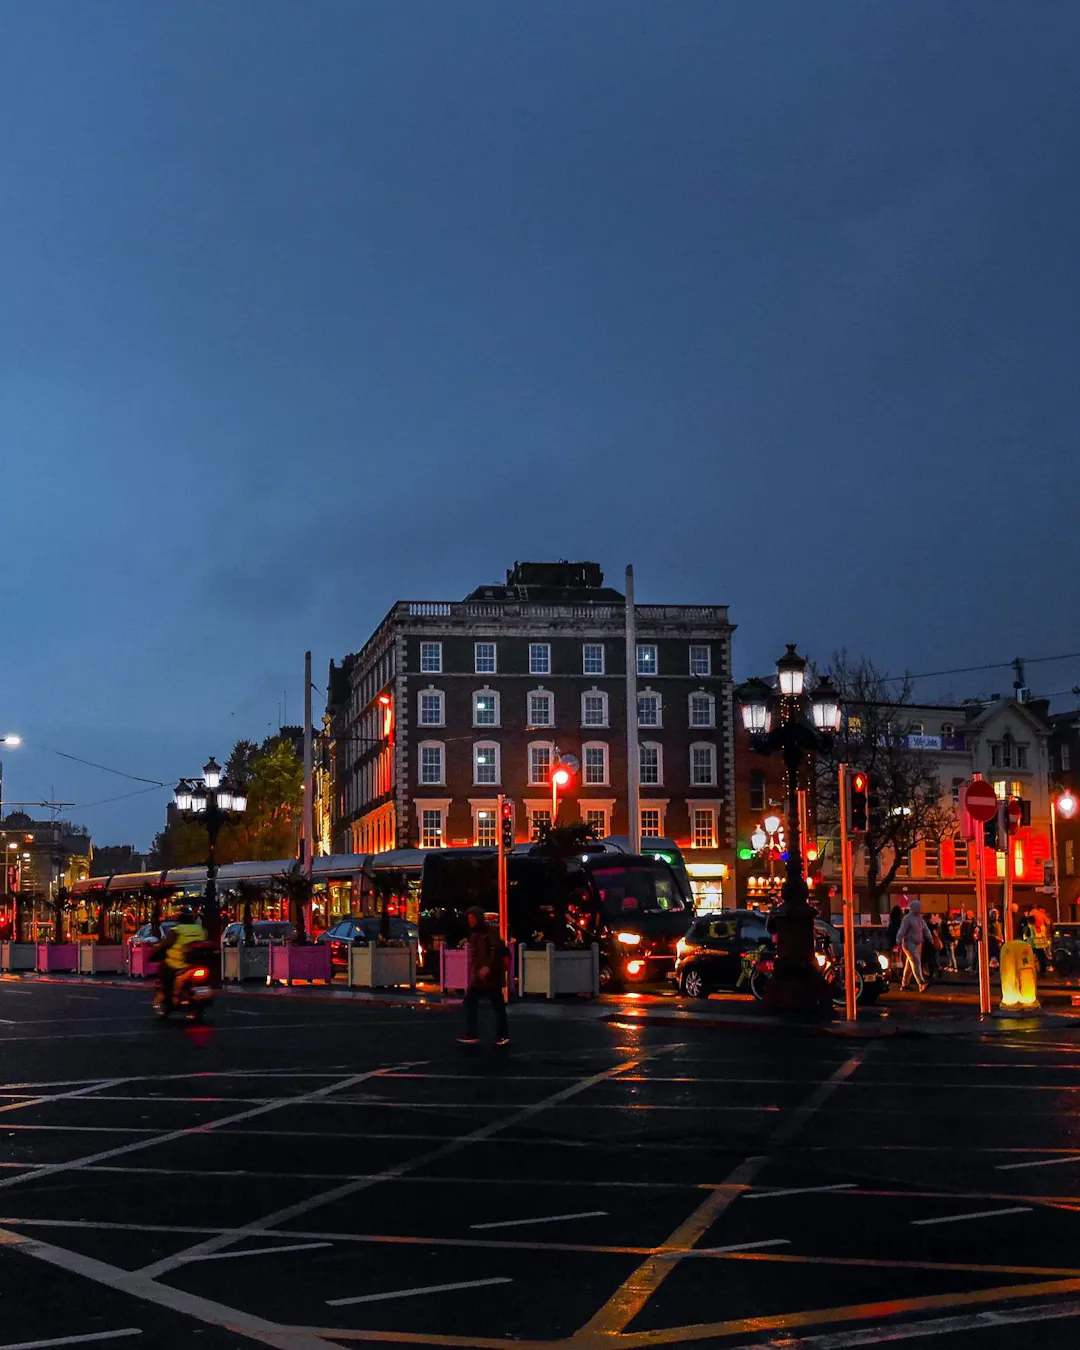
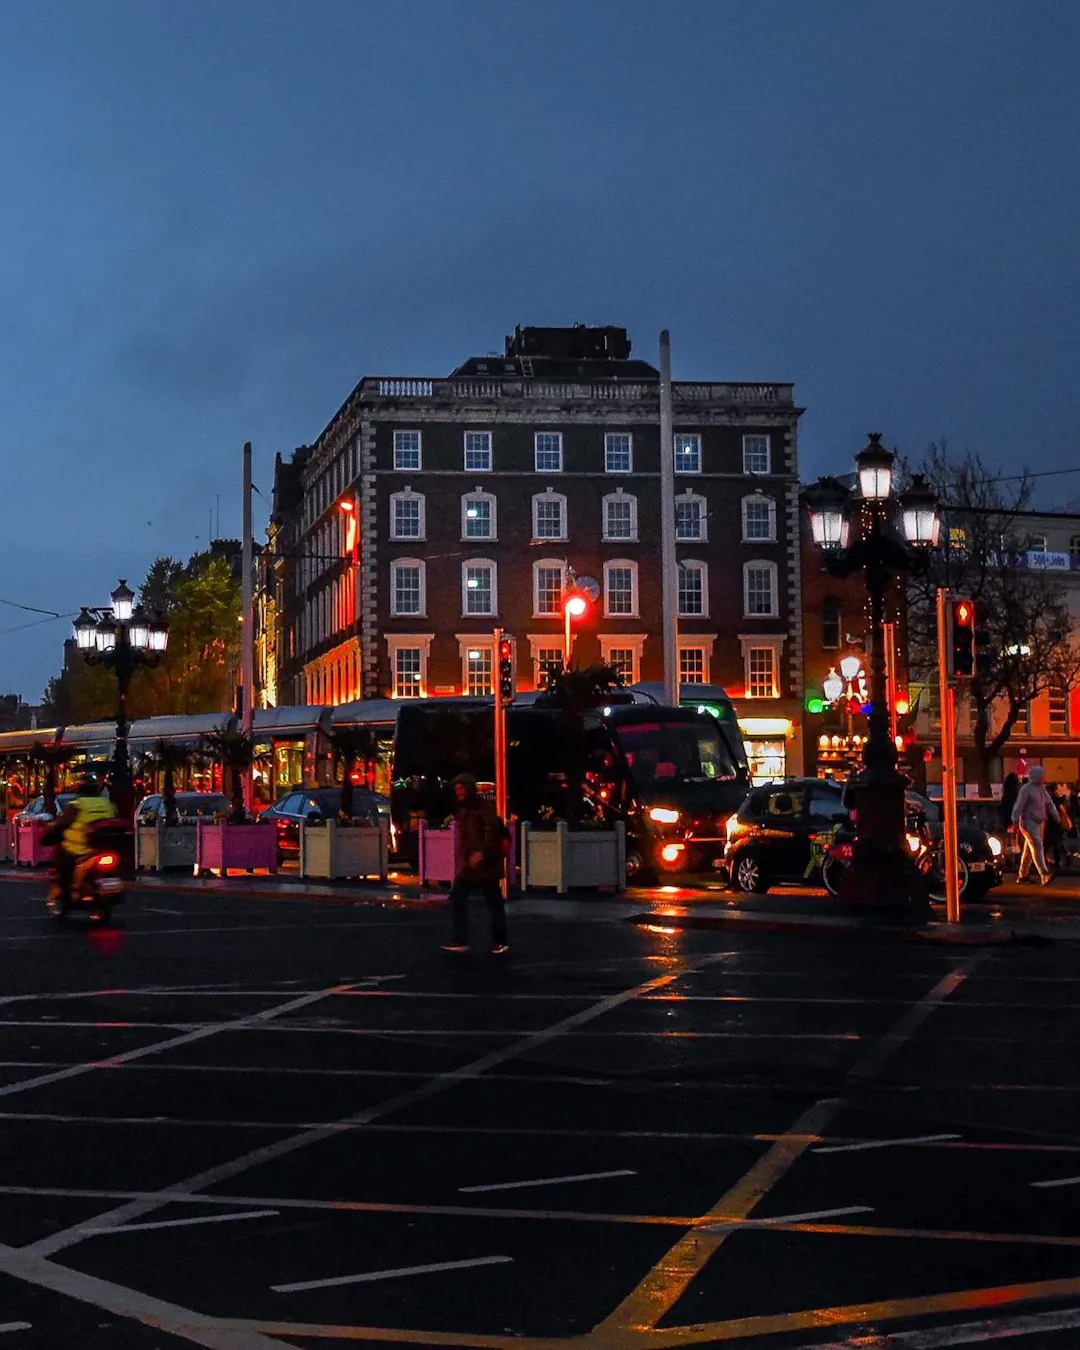
fix: final QA pass on top bar, navbar and hero
Remove the carousel dots so the hero has no visible control (Pause
stays available on keyboard focus). Re-crop the fourth campaign for
phones, fit the hero to landscape phones, shrink the title on short
phones and strengthen text contrast behind the copy.

diff --git a/src/css/commerce.css b/src/css/commerce.css
@@ -51,7 +51,7 @@
     display: grid;
     --hero-h: clamp(30rem, calc(100svh - var(--announcement-h) - var(--nav-h) - var(--hero-peek)), 54rem);
     /* Room taken by everything in a slide except its title. */
-    --hero-chrome: 18.5rem;
+    --hero-chrome: 17rem;
     height: var(--hero-h);
     overflow: hidden;
     background-color: var(--color-ink);
@@ -70,7 +70,35 @@
   /* Short phones: a smaller title leaves the top of the photo to its subject. */
   @media (width < 64rem) and (orientation: portrait) and (height < 44rem) {
     .hero {
-      --hero-chrome: 24rem;
+      --hero-chrome: 24.5rem;
+    }
+  }
+
+  /* Phones held sideways: the hero fits the screen under the header and the
+     copy tightens so the call to action needs no scrolling. */
+  @media (orientation: landscape) and (height < 30rem) {
+    .hero {
+      --hero-h: max(16rem, calc(100svh - var(--announcement-h) - var(--nav-h)));
+      --hero-chrome: 12rem;
+    }
+
+    .hero .hero-content {
+      padding-block: 1.5rem;
+    }
+
+    .hero .hero-title,
+    .hero .hero-description {
+      margin-top: 0.75rem;
+    }
+
+    .hero .hero-description {
+      max-width: 60ch;
+      font-size: var(--text-body);
+      line-height: var(--text-body--line-height);
+    }
+
+    .hero .hero-cta {
+      margin-top: 1rem;
     }
   }
 
@@ -141,7 +169,7 @@
     position: relative;
     display: flex;
     align-items: flex-end;
-    padding-block: 3rem 4.5rem;
+    padding-block: 3rem;
     background: linear-gradient(to bottom, rgb(10 10 10 / 0) 10%, rgb(10 10 10 / 0.45) 38%, rgb(10 10 10 / 0.82));
   }
 
@@ -151,7 +179,7 @@
       padding-block: 5rem;
       background:
         linear-gradient(to top, rgb(10 10 10 / 0.75), rgb(10 10 10 / 0.55) 12%, rgb(10 10 10 / 0) 32%),
-        linear-gradient(to right, rgb(10 10 10 / 0.62), rgb(10 10 10 / 0.2) 50%, rgb(10 10 10 / 0) 72%);
+        linear-gradient(to right, rgb(10 10 10 / 0.66), rgb(10 10 10 / 0.3) 50%, rgb(10 10 10 / 0) 78%);
     }
   }
 
@@ -202,6 +230,7 @@
     font-weight: var(--text-display-xl--font-weight);
     line-height: var(--text-display-xl--line-height);
     letter-spacing: var(--text-display-xl--letter-spacing);
+    text-shadow: 0 0 1.5rem rgb(10 10 10 / 0.35);
     font-size: min(var(--text-display-xl), max(2.25rem, calc((var(--hero-h) - var(--hero-chrome)) / 3)));
   }
 
@@ -217,76 +246,22 @@
     margin-top: 2rem;
   }
 
-  /* Controls: four discreet dots; Pause appears on keyboard focus only. */
+  /* The only control: Pause / Play, kept for keyboard and screen reader
+     users and shown on keyboard focus only. */
   .hero-controls {
     position: absolute;
-    inset: auto 0 0 0;
+    inset: auto 0 1rem 0;
     z-index: 2;
-    padding-bottom: 1rem;
+    display: flex;
     pointer-events: none;
   }
 
-  /* Desktop: the 44px dot row shares the centre line of the 48px CTA. */
-  @media (width >= 64rem) {
-    .hero-controls {
-      padding-bottom: calc(5rem + 2px);
-    }
-  }
-
-  .hero-controls-row {
+  .hero-controls .container-site {
     display: flex;
-    align-items: center;
-    justify-content: space-between;
-    gap: 1rem;
+    justify-content: flex-end;
   }
 
-  @media (width >= 64rem) {
-    .hero-controls-row {
-      justify-content: flex-end;
-    }
-  }
-
-  .hero-dots {
-    display: flex;
-    margin-inline: -0.5625rem;
-    pointer-events: auto;
-  }
-
-  /* 24 by 44px target around a 6px dot. */
-  .hero-dot {
-    display: flex;
-    align-items: center;
-    justify-content: center;
-    width: 1.5rem;
-    height: 2.75rem;
-  }
-
-  .hero-dot span {
-    width: 0.375rem;
-    height: 0.375rem;
-    border-radius: 50%;
-    background-color: rgb(255 255 255 / 0.5);
-    /* Thin dark edge: keeps the dot visible on bright parts of a photo. */
-    box-shadow: 0 0 0 1px rgb(10 10 10 / 0.35);
-    transition:
-      background-color var(--duration-base) var(--ease-premium),
-      transform var(--duration-base) var(--ease-premium);
-  }
-
-  .hero-dot[data-current] span {
-    background-color: var(--color-white);
-    transform: scale(1.34);
-  }
-
-  @media (hover: hover) {
-    .hero-dot:hover span {
-      background-color: var(--color-white);
-    }
-  }
-
-  /* Pause / Play: kept for keyboard and screen reader users, shown on focus. */
   .hero-pause {
-    order: 1;
     min-height: 2.75rem;
     padding-inline: 0.875rem;
     background-color: rgb(10 10 10 / 0.7);
@@ -301,12 +276,6 @@
   .hero-pause:focus-visible {
     opacity: 1;
     pointer-events: auto;
-  }
-
-  @media (width >= 64rem) {
-    .hero-pause {
-      order: 0;
-    }
   }
 
   /* ---------- Product grid & rail ---------- */

diff --git a/src/js/modules/carousel.js b/src/js/modules/carousel.js
@@ -7,8 +7,9 @@
  * a slide or the tab is hidden, and stops until an explicit Play when keyboard
  * focus enters the carousel or the user prefers reduced motion.
  *
- * Hooks: [data-carousel-pause], [data-carousel-goto="<index>"],
- * [data-carousel-status].
+ * No visible control: swipe on touch screens, and a Pause / Play button
+ * ([data-carousel-pause]) that only shows on keyboard focus.
+ * Slide changes made by hand are announced in [data-carousel-status].
  */
 
 import { qs, qsa } from '../utils/dom.js';
@@ -16,7 +17,7 @@ import { qs, qsa } from '../utils/dom.js';
 const INTERVAL = 6000;
 const SWIPE_DISTANCE = 48;
 // On a slow connection, autoplay waits this long for the next image before it
-// gives the current slide another cycle; a click waits this long at most.
+// gives the current slide another cycle; a swipe waits this long at most.
 const AUTO_WAIT = 4000;
 const MANUAL_WAIT = 1500;
 
@@ -25,8 +26,6 @@ export function initCarousel(root = qs('[data-carousel]')) {
   const slides = qsa('[data-slide]', root);
   if (slides.length < 2) return;
 
-  const controls = qs('.hero-controls', root);
-  const dots = qsa('[data-carousel-goto]', root);
   const status = qs('[data-carousel-status]', root);
   const pauseButton = qs('[data-carousel-pause]', root);
   const reducedMotion = window.matchMedia('(prefers-reduced-motion: reduce)');
@@ -92,11 +91,6 @@ export function initCarousel(root = qs('[data-carousel]')) {
       slide.toggleAttribute('data-active', active);
       slide.toggleAttribute('inert', !active);
     });
-    dots.forEach((dot, i) => {
-      dot.toggleAttribute('data-current', i === index);
-      if (i === index) dot.setAttribute('aria-current', 'true');
-      else dot.removeAttribute('aria-current');
-    });
     if (announce && status) {
       const title = qs('h2', slides[index])?.textContent ?? '';
       status.textContent = `Campaign ${index + 1} of ${slides.length}: ${title}`;
@@ -148,7 +142,7 @@ export function initCarousel(root = qs('[data-carousel]')) {
     restartClock();
   };
 
-  /** A click, key or swipe: the outgoing slide stays until the new image is in. */
+  /** A swipe: the outgoing slide stays until the new image is in. */
   const goTo = (next, options) => {
     wanted = (next + slides.length) % slides.length;
     autoPending = false;
@@ -198,14 +192,6 @@ export function initCarousel(root = qs('[data-carousel]')) {
   };
 
   pauseButton?.addEventListener('click', () => setPaused(!userPaused));
-  dots.forEach((dot) => dot.addEventListener('click', () => goTo(Number(dot.dataset.carouselGoto), { announce: true })));
-
-  // Arrow keys work from the controls only: from a slide's link they would
-  // make that slide inert and drop focus on <body>.
-  controls?.addEventListener('keydown', (event) => {
-    if (event.key === 'ArrowRight') goTo(wanted + 1, { announce: true });
-    else if (event.key === 'ArrowLeft') goTo(wanted - 1, { announce: true });
-  });
 
   // Keyboard focus entering the carousel stops autoplay until an explicit Play.
   root.addEventListener('focusin', (event) => {
@@ -233,7 +219,7 @@ export function initCarousel(root = qs('[data-carousel]')) {
   });
   document.addEventListener('visibilitychange', syncHold);
 
-  // Swipe (touch and pen only; mouse users have the dots).
+  // Swipe (touch and pen only).
   let startX = 0;
   let startY = 0;
   root.addEventListener('pointerdown', (event) => {

diff --git a/index.html b/index.html
@@ -361,9 +361,8 @@
 <section class="hero" aria-roledescription="carousel" aria-label="Campaigns" data-carousel>
   <h1 class="sr-only">DUBLIN/01 — sneakers and streetwear, Dublin</h1>
   <div class="hero-controls">
-    <div class="container-site hero-controls-row">
+    <div class="container-site">
       <button class="hero-pause" type="button" data-carousel-pause>Pause slideshow</button>
-      <div class="hero-dots"><button class="hero-dot" type="button" aria-label="Show campaign 1 of 4: Built for wet pavements." data-carousel-goto="0"><span></span></button><button class="hero-dot" type="button" aria-label="Show campaign 2 of 4: Made for everyday miles." data-carousel-goto="1"><span></span></button><button class="hero-dot" type="button" aria-label="Show campaign 3 of 4: City layers. Dublin energy." data-carousel-goto="2"><span></span></button><button class="hero-dot" type="button" aria-label="Show campaign 4 of 4: Ready for every route." data-carousel-goto="3"><span></span></button></div>
     </div>
   </div>
   <div class="hero-slides" data-carousel-slides>
@@ -413,7 +412,7 @@
       </div>
     </article>
     <article class="hero-slide" role="group" aria-roledescription="slide" aria-label="4 of 4" data-slide data-campaign="dublin-essentials-city" inert>
-      <picture style="--hero-pos-tall: 50% 50%; --hero-pos-wide: 50% 60%">
+      <picture style="--hero-pos-tall: 50% 0%; --hero-pos-wide: 50% 60%">
         <source media="(min-width: 64rem), (orientation: landscape)" data-srcset="public/images/editorial/hero-dublin-wide.webp" width="1920" height="1080" />
         <img class="hero-media" data-src="public/images/editorial/hero-dublin-tall.webp" width="1080" height="1350"
           decoding="async" alt="Dublin city centre at dusk after rain, red lights reflected on the wet road." />

diff --git a/travaux-realises.md b/travaux-realises.md
@@ -339,3 +339,62 @@ Vérifié sur captures à 1440×900, 1280×800, 1280×720, 1024×768, 768×1024,
 
 - **Maintenant** : tout ce qui précède. Aucune dépendance ajoutée.
 - **Plus tard** : campagnes servies par un CMS (même schéma JSON), dates de début et de fin, mesure des clics. Les sections sous le Hero ne sont pas commencées.
+
+---
+
+## PHASE 02 — TOP BAR + NAVBAR + HERO
+
+**STATUS: PRODUCTION READY / VISUAL REVIEW**
+
+Date : 4 octobre 2026. Passe finale de contrôle, corrections et vérification. Aucune nouvelle section, aucune refonte. En attente de la validation visuelle avant le gel.
+
+### Vérifié
+
+- **Barre d'annonce** : hauteur 32 px, message centré sur l'axe de la page (écart mesuré : 0 px), « 30-day returns » à gauche et « EN / EUR € » à droite à partir de 1024 px, message seul en dessous. Aucun défaut trouvé, rien modifié.
+- **Navbar** : New, Men, Women, Sneakers, Clothing, Brands, Sale ; logo centré sur la page à toutes les largeurs (écart 0 px) ; aucun chevauchement entre navigation, logo et actions, y compris à 1280 px ; recherche réelle sur le catalogue local (résultats, Échap, clic extérieur) ; compte, favoris et panier ; menus déroulants et menu mobile. Aucun défaut trouvé, rien modifié.
+- **Hero** : 4 campagnes, un cycle complet observé sur desktop et sur mobile (changement toutes les 6 s), boutons, cadrages, hauteur, contraste, clavier, mouvement réduit.
+- **Bande blanche sous le Hero** : c'est le padding supérieur de la section suivante (144 px à 1440, 64 px à 390). Le Hero n'a ni marge ni padding en bas, et aucun conteneur vide ne le suit. Non modifié.
+- **Largeurs** : 1440, 1280, 1024, 768, 430, 390 et 375 px, plus un téléphone couché (844×390). Aucun débordement horizontal.
+
+### Corrigé
+
+- **Points du carrousel retirés**, avec leur CSS et leur JS. Le mécanisme n'a plus aucun élément visible à la souris ni au tactile.
+- **Slide 4 sur téléphone** : image portrait recadrée, les immeubles et la rue restent visibles au-dessus du texte (avant : surtout du ciel).
+- **Téléphone couché** : le Hero tient dans l'écran sous l'en-tête et le bloc texte se resserre ; le bouton est visible sans faire défiler.
+- **Téléphones courts (375×667)** : titre réduit pour que l'eyebrow ne recouvre plus les chaussures.
+- **Lisibilité** : dégradé gauche légèrement renforcé derrière le texte sur desktop et halo discret sous le titre. Contraste mesuré sur les 4 photos aux 8 tailles, halo compris : au moins 6,2:1 pour l'eyebrow et la description, au moins 3,1:1 pour le titre.
+- **Espace bas du bloc texte sur mobile** réduit (il était réservé aux points).
+
+### Responsive
+
+Eyebrow, titre, texte et bouton visibles sur les 4 campagnes aux 8 tailles ; bouton de 48 px de haut ; même marge gauche que la navbar (40, 24 ou 16 px selon la largeur) ; titre sur la même échelle typographique, avec une largeur propre à chaque campagne.
+
+### Accessibilité
+
+- Un bouton Pause / Play reste dans la page, visible uniquement au focus clavier : il permet d'arrêter le défilement (WCAG 2.2.2). Invisible à la souris et au tactile.
+- Le défilement se suspend au survol, quand le focus clavier est dans une slide et quand l'onglet est caché. Avec `prefers-reduced-motion`, pas de défilement automatique, ni zoom ni mouvement.
+- Balayage au doigt pour changer de campagne ; changement annoncé aux lecteurs d'écran.
+- Chaque bouton est un lien réel avec anneau de focus visible ; textes alternatifs sur les 4 photos ; un seul `h1` dans la page.
+
+### Console et technique
+
+- Aucune erreur de console, aucune image cassée, aucune requête en échec. Un avis de Chrome sur le préchargement de la police apparaît parfois après un rechargement ; ce n'est pas une erreur.
+- Un seul minuteur : après des survols répétés, puis Play, Pause, Play, le rythme reste de 6 s par campagne.
+- Aucun décalage de mise en page (CLS mesuré : 0).
+- Projet en JavaScript natif : pas de React, donc ni avertissement React ni hydratation.
+- Aucune dépendance ajoutée, pas de CSS ni de JS mort lié aux anciens contrôles.
+
+### Performance
+
+- Première image du Hero chargée en priorité (`fetchpriority="high"`) ; les trois autres sont demandées une par une après son affichage.
+- Images WebP : 1920×1080 pour le format large (142 à 193 Ko), 1080×1350 pour le portrait (117 à 161 Ko).
+- `carousel.js` : 8,6 Ko non minifié. Animations en `opacity` et `transform` uniquement.
+
+### Limites connues
+
+- Sur les slides 3 et 4, le titre passe devant la veste et les immeubles (aucun visage ni chaussure couverts).
+- Le lien de la barre d'annonce mesure 32 px de haut sur mobile (la hauteur de la barre).
+
+### Fichiers modifiés
+
+`scripts/build-html.mjs`, `src/js/modules/carousel.js`, `src/css/commerce.css`, `src/data/campaigns.json`, `public/images/editorial/hero-dublin-tall.webp`, `index.html` (généré).
